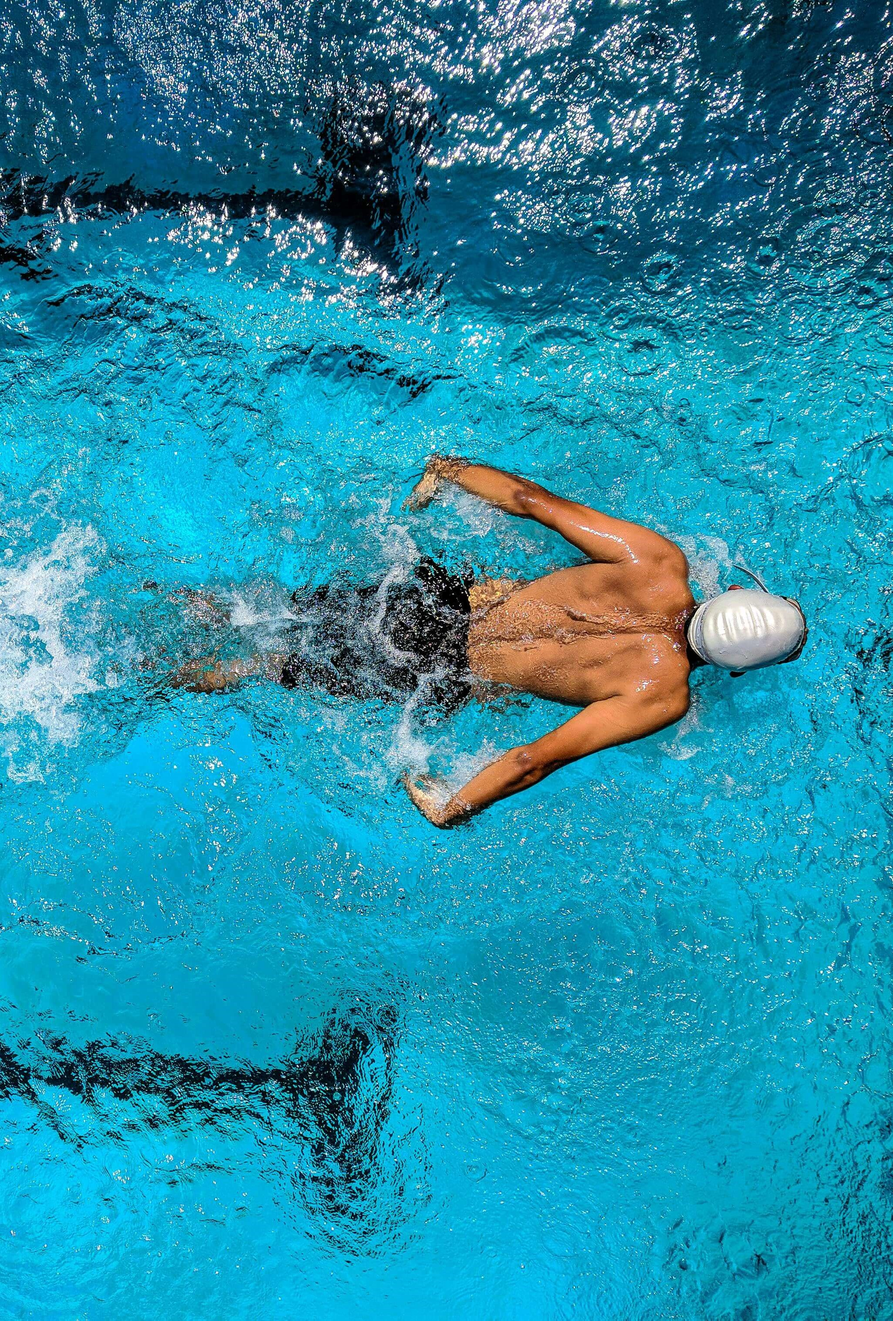
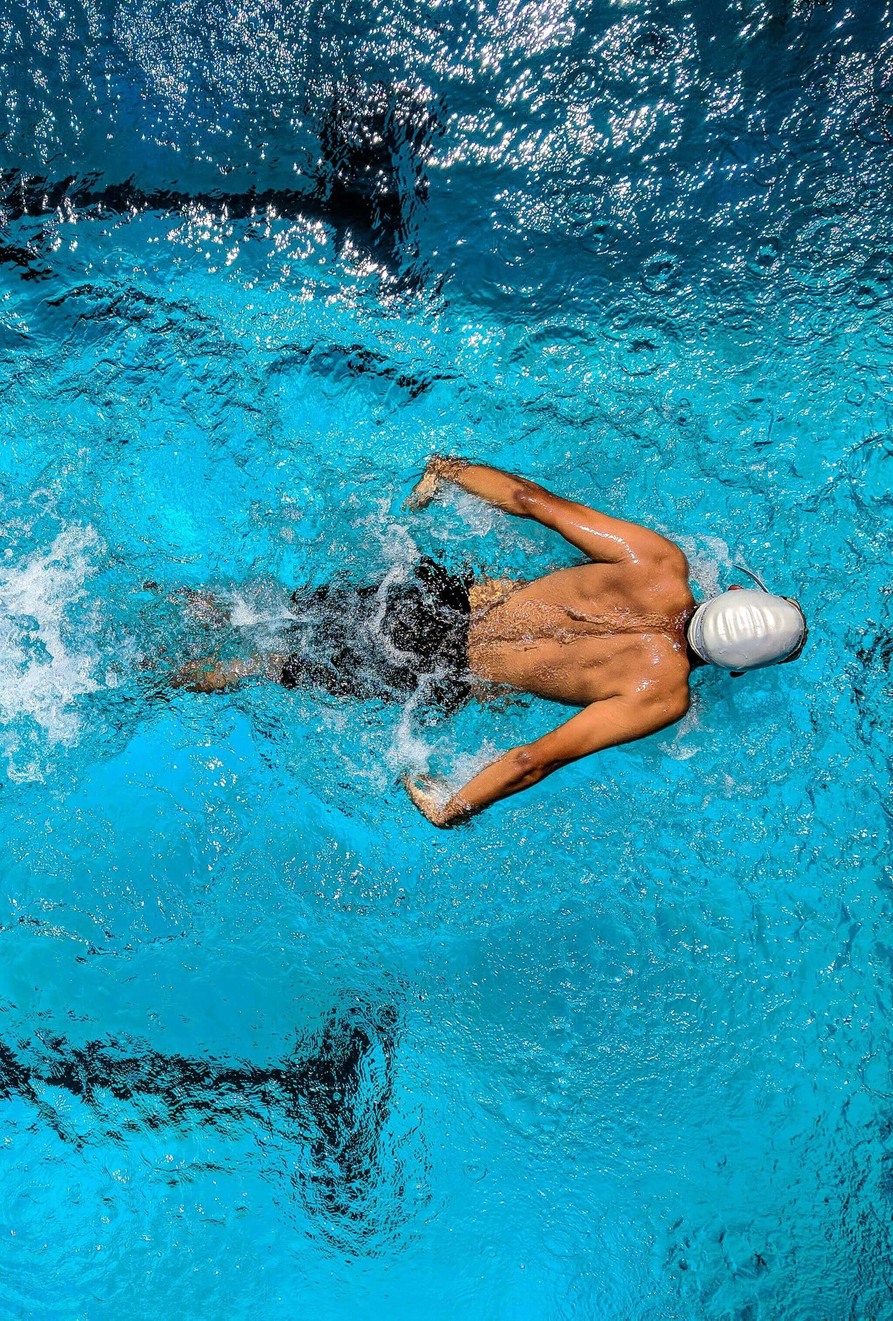
changed image resolutions

Changed region(s): [[0.9981, 0.031, 1.0, 0.0619], [0.3431, 0.4954, 0.3743, 0.5264]]

diff --git a/src/pages/Home.jsx b/src/pages/Home.jsx
@@ -1,6 +1,6 @@
 import { Link } from "react-router-dom";
-import bgImageD from "../assets/homepage-background-swimmer-d.jpg";
-import bgImageM from "../assets/homepage-background-swimmer-m4.jpg";
+import bgImageD from "../assets/homepage-background-swimmer-1920.jpg";
+import bgImageM from "../assets/homepage-background-swimmer-m6.jpg";
 import bgImageT from "../assets/homepage-background-swimmer-t.jpg";
 import bgImage from "../assets/homepage-background-swimmer.jpg";
 

diff --git a/src/components/Navbar.jsx b/src/components/Navbar.jsx
@@ -39,7 +39,7 @@ export default function Navbar() {
         <div className="py-2 flex items-center justify-between container mx-auto px-6  ">
           <div className="w-24 h-8">
             <Link to="/" className="cursor-pointer " onClick={closeNav}>
-              <img src={swim_success_logo}></img>
+              <img className="w-24 h-8" src={swim_success_logo}></img>
             </Link>
           </div>
           <div className="flex justify-center">
